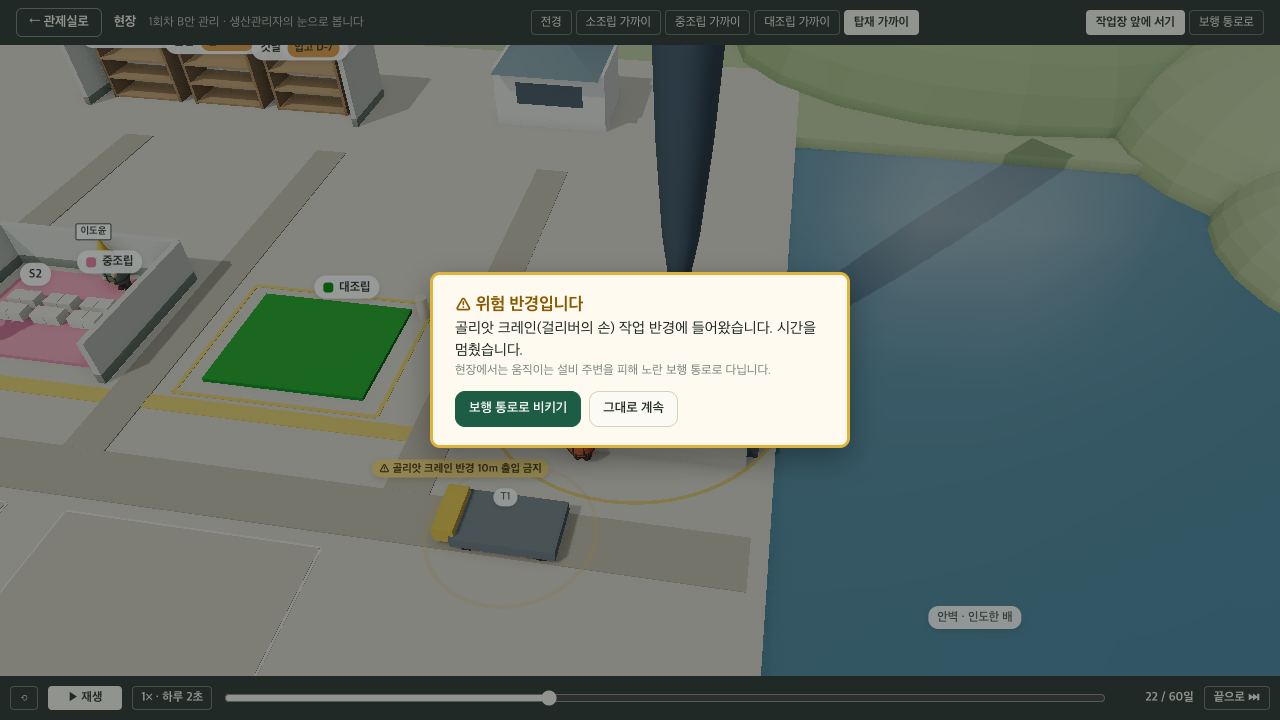
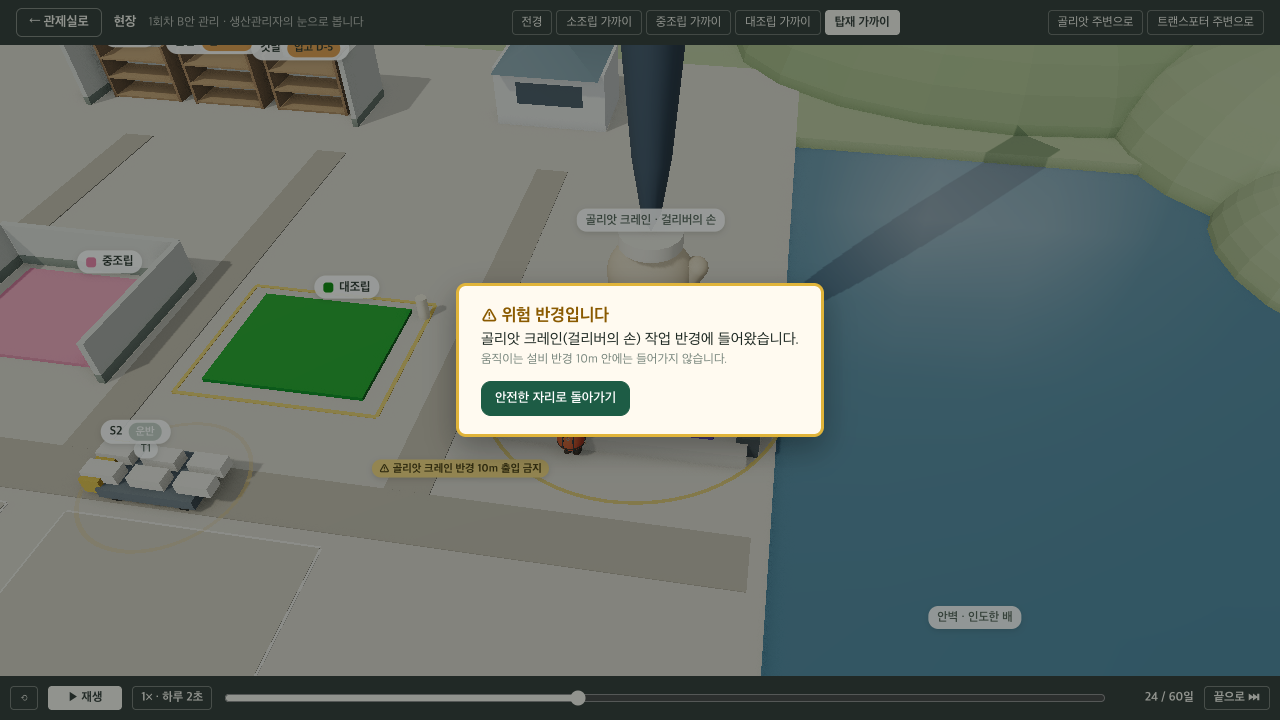
fix: 현장 안전 경고를 순간이동 버튼과 돌아가기 하나로 줄임(D35)

diff --git a/ui/src/scene/yard.ts b/ui/src/scene/yard.ts
@@ -34,12 +34,13 @@ const LAUNCH = { fill: [0.1, 0.28], open: [0.28, 0.4], sail: [0.4, 0.62], close:
 const LAUNCH_END = 0.86;
 const DOOR_OPEN = Math.PI * 0.47;   // 문이 거의 직각으로 열린다
 
-// 현장 안전(3.0, D27·D28): 위험 설비의 반경에 관리자가 들면 경고한다. 엔진 규칙이 아니라 현장 화면의 규칙이다.
-// 반경은 팻말에 "반경 10m"로 적는다(소인국 척도라 화면 크기는 보기 좋게만 맞춘다).
+// 현장 안전(3.0, D27·D28·D35): 관리자는 평소 작업장에서 떨어진 안전한 자리에 선다. "골리앗 주변으로"·"트랜스포터 주변으로"를
+// 누르면 그 설비 옆으로 순간이동하고, 위험 반경이라 경고한다(재생 중 저절로 뜨는 경고는 1인칭 이동이 생길 때로 미룬다).
+// 엔진 규칙이 아니라 현장 화면의 규칙이다. 반경은 팻말에 "반경 10m"로 적는다(소인국 척도라 화면 크기는 보기 좋게만).
 const CRANE_R = 2.9;        // 걸리버의 손(골리앗 크레인): 탑재 도크 둘레
-const CART_R = 1.4;         // 운행 중인 트랜스포터
-const WALKWAY_Z = 1.95;     // 보행 통로(노란 선): 1호 작업장 앞과 큰길 사이
-export type ManagerSpot = "front" | "walkway";
+const CART_R = 1.4;         // 트랜스포터
+const SAFE_Z = 1.95;        // 안전한 자리: 1호 작업장 앞과 큰길 사이(크레인 반경 밖)
+export type ManagerSpot = "safe" | "crane" | "cart";
 export interface Hazard { id: string; label: string }
 const WATER_TOP = 0.32;
 const phase = (frac: number, [a, b]: readonly [number, number]) => clamp01((frac - a) / (b - a));
@@ -347,10 +348,8 @@ export class Yard {
   private readonly labTag: CSS2DObject;
   private readonly labWindow: THREE.MeshStandardMaterial;
   /** 관리자 자리와 위험 경고 */
-  private managerSpot: ManagerSpot = "front";
+  private managerSpot: ManagerSpot = "safe";
   private managerStation: number | null = null;
-  private inside = new Set<string>();           // 지금 반경 안에 있는 설비(같은 설비는 나갔다 다시 들어와야 또 경고)
-  onHazard: ((h: Hazard) => void) | null = null;
   private craneRing!: THREE.Mesh;
   private readonly cartRings: THREE.Mesh[] = [];
   private craneActive = false;
@@ -461,26 +460,33 @@ export class Yard {
     for (const p of [...this.people, this.senior, this.manager]) p.showTag(on);
   }
 
-  /** 현장에서 관리자가 설 자리: 보고 있는 공정의 작업장 앞(큰길 옆·도크 앞) 또는 보행 통로. */
-  setManagerSpot(spot: ManagerSpot, station: number | null): void {
+  /**
+   * 관리자 자리. safe = 보고 있는 공정 앞쪽, 작업장에서 떨어진 안전한 자리(탑재는 크레인 반경 밖).
+   * crane·cart = 그 설비 옆으로 순간이동한다. 위험 반경에 들었으면 무엇인지 돌려준다(화면이 경고).
+   */
+  setManagerSpot(spot: ManagerSpot, station: number | null): Hazard | null {
     this.managerSpot = spot;
     this.managerStation = station;
-    this.manager.place(this.managerAt(), Math.PI, "stand", false, 0.4);
+    const at = this.managerAt();
+    this.manager.place(at, Math.PI, "stand", spot !== "safe", 0.4);
+    if (spot === "crane") return { id: "crane", label: "골리앗 크레인(걸리버의 손) 작업 반경" };
+    if (spot === "cart") return { id: "cart", label: "트랜스포터 운행 반경" };
+    return null;
   }
 
   private managerAt(): THREE.Vector3 {
     const i = this.managerStation;
-    if (this.managerSpot === "walkway") {
-      // 보행 통로: 탑재 쪽은 크레인 반경 밖으로 비켜 선다
-      const x = i === null ? -1 : i === 3 ? STATION_X[3] - CRANE_R - 0.8 : STATION_X[i];
-      return new THREE.Vector3(x, 0, WALKWAY_Z);
+    if (this.managerSpot === "crane") return new THREE.Vector3(STATION_X[3] - 0.8, 0, MAT_D / 2 + 0.6);
+    if (this.managerSpot === "cart") {
+      // 가장 가까이 있는 트랜스포터 바로 옆(큰길 위)
+      const cart = this.carts.find((c) => c.group.visible)?.group.position ?? new THREE.Vector3(DEPOT.x, 0, LANE_Z);
+      return new THREE.Vector3(cart.x + 0.5, 0, cart.z + 0.7);
     }
-    if (i === null) return new THREE.Vector3(-1, 0, LANE_Z + 0.9);
-    // 작업장 앞: 큰길 바로 옆(조립 공정), 도크 앞(탑재)
-    return i === 3 ? new THREE.Vector3(STATION_X[3] - 0.6, 0, MAT_D / 2 + 0.7) : new THREE.Vector3(STATION_X[i] - 0.3, 0, LANE_Z + 0.8);   // 트랜스포터가 블록을 내리는 자리 바로 옆
+    const x = i === null ? -1 : i === 3 ? STATION_X[3] - CRANE_R - 0.8 : STATION_X[i];
+    return new THREE.Vector3(x, 0, SAFE_Z);
   }
 
-  /** 위험 반경 표시(노랑·검정 점선 원), "반경 10m 출입 금지" 팻말, 보행 통로 노란 선 */
+  /** 위험 반경 표시(노랑·검정 점선 원)와 "반경 10m 출입 금지" 팻말 */
   private buildSafety(): void {
     const ring = (r: number) => {
       const m = new THREE.Mesh(new THREE.RingGeometry(r - 0.07, r, 64),
@@ -501,38 +507,17 @@ export class Yard {
     const sign = label("⚠ 골리앗 크레인 반경 10m 출입 금지", "place-tag small warn-tag");
     sign.position.set(STATION_X[3] - CRANE_R + 0.3, 0.05, 2.6);
     this.scene.add(sign);
-    const walk = new THREE.Mesh(new THREE.BoxGeometry(STATION_X[3] - CRANE_R - 0.3 - (-16), 0.012, 0.35),
-      new THREE.MeshStandardMaterial({ color: "#e0b43a", roughness: 0.8 }));
-    walk.position.set((-16 + STATION_X[3] - CRANE_R - 0.3) / 2, 0.008, WALKWAY_Z);
-    walk.receiveShadow = true;
-    this.scene.add(walk);
-    const wtag = label("보행 통로", "place-tag small");
-    wtag.position.set(-13, 0.05, WALKWAY_Z);
-    this.scene.add(wtag);
   }
 
-  /** 관리자 자리와 위험 설비의 거리를 보고, 반경에 새로 들어온 설비를 알린다. 재생 중에만. */
-  private checkHazards(playing: boolean): void {
-    const me = this.manager.root.position;
-    const near: Hazard[] = [];
-    const flat = (v: THREE.Vector3) => Math.hypot(v.x - me.x, v.z - me.z);
-    const crane = new THREE.Vector3(STATION_X[3], 0, 0);
+  /** 위험 반경 원: 크레인은 일할 때 진하게, 트랜스포터는 움직일 때 따라다닌다. */
+  private drawHazardRings(): void {
     (this.craneRing.material as THREE.MeshBasicMaterial).opacity = this.craneActive ? 0.9 : 0.3;
-    if (this.craneActive && flat(crane) < CRANE_R) near.push({ id: "crane", label: "골리앗 크레인(걸리버의 손) 작업 반경" });
     this.carts.forEach((cart, k) => {
-      const moving = cart.group.visible && cart.group.userData.moving === true;
       const ring = this.cartRings[k];
-      if (ring) {
-        ring.visible = moving;
-        ring.position.set(cart.group.position.x, 0.03, cart.group.position.z);
-      }
-      if (moving && flat(cart.group.position) < CART_R) near.push({ id: `cart${k}`, label: `트랜스포터 T${k + 1} 운행 반경` });
+      if (!ring) return;
+      ring.visible = cart.group.visible && cart.group.userData.moving === true;
+      ring.position.set(cart.group.position.x, 0.03, cart.group.position.z);
     });
-    const ids = new Set(near.map((h) => h.id));
-    for (const h of near) {
-      if (!this.inside.has(h.id) && playing) this.onHazard?.(h);
-    }
-    this.inside = ids;
   }
 
   /** 생산관리자 소인의 이름표: 서명한 닉네임. */
@@ -868,7 +853,7 @@ export class Yard {
     const t = this.timer.getElapsed();
     this.draw(false);
     for (const p of [...this.people, this.senior, this.manager]) p.update(dt);
-    this.checkHazards(this.source?.playing ?? false);
+    this.drawHazardRings();
     for (const lot of this.lots.values()) {
       if (!lot.group.visible) continue;
       // 대기 줄 → 정반처럼 자리를 옮기는 로트도 준비 시간(1배속 0.15초) 안에 닿게 빨리 옮긴다.

diff --git a/ui/src/main.ts b/ui/src/main.ts
@@ -83,8 +83,8 @@ interface State {
   zoomed: "left" | "right" | null;
   /** 현장에서 가까이 보는 공정. null이면 전경. */
   fieldFocus: number | null;
-  /** 현장에서 관리자가 설 자리: 작업장 앞(위험 반경에 들 수 있음) 또는 보행 통로(3.0) */
-  managerSpot: "front" | "walkway";
+  /** 현장에서 관리자가 선 자리: 안전한 자리, 또는 버튼으로 순간이동한 설비 옆(3.0) */
+  managerSpot: "safe" | "crane" | "cart";
   /** 마지막으로 서명한 사람(이 브라우저가 기억한다). */
   signer: Signer | null;
   /** 반 코드를 적었으면 그 반의 시나리오별 최고(서버). */
@@ -753,7 +753,9 @@ function openCctv(station: number, day?: number): void {
 function aimCamera(): void {
   const apply = () => {
     yard?.setCamera("field", state.fieldFocus);
-    yard?.setManagerSpot(state.managerSpot, state.fieldFocus);
+    // 공정을 바꿔 보면 관리자는 그 공정 앞 안전한 자리로 간다
+    state.managerSpot = "safe";
+    yard?.setManagerSpot("safe", state.fieldFocus);
     // 이름표는 현장에서 공정을 가까이 볼 때만.
     yard?.showNameTags(state.screen === "field" && state.fieldFocus !== null);
   };
@@ -783,7 +785,6 @@ function syncScene(jump: boolean): void {
   if (!yard) {
     yardLoading ??= import("./scene/yard").then((y) => {
       yard = new y.Yard();
-      yard.onHazard = warnHazard;
     });
     void yardLoading.then(() => {
       aimCamera();
@@ -1075,38 +1076,37 @@ function drawField(): void {
       h("button", { type: "button", class: state.fieldFocus === null ? "active" : "", onclick: () => { state.fieldFocus = null; drawField(); aimCamera(); } }, "전경"),
       scenario.stations.map((st, i) =>
         h("button", { type: "button", class: state.fieldFocus === i ? "active" : "", onclick: () => { state.fieldFocus = i; drawField(); aimCamera(); } }, `${st.name} 가까이`))),
-    // 관리자가 설 자리(3.0 안전): 작업장 앞은 설비가 다가오면 위험 반경에 들 수 있다
-    h("div", { class: "field-cams", role: "group", "aria-label": "관리자 자리" },
-      (["front", "walkway"] as const).map((spot) =>
-        h("button", { type: "button", class: state.managerSpot === spot ? "active" : "", onclick: () => moveManager(spot) },
-          spot === "front" ? "작업장 앞에 서기" : "보행 통로로"))));
+    // 관리자 순간이동(3.0 안전): 설비 옆으로 가면 위험 반경 경고. 1인칭 이동은 나중에(D35)
+    h("div", { class: "field-cams", role: "group", "aria-label": "관리자 이동" },
+      h("button", { type: "button", onclick: () => moveManager("crane") }, "골리앗 주변으로"),
+      h("button", { type: "button", onclick: () => moveManager("cart") }, "트랜스포터 주변으로")));
   drawOsd(els.fieldOsd);
 }
 
-function moveManager(spot: "front" | "walkway"): void {
+function moveManager(spot: "safe" | "crane" | "cart"): void {
   state.managerSpot = spot;
-  yard?.setManagerSpot(spot, state.fieldFocus);
-  drawField();
+  const hazard = yard?.setManagerSpot(spot, state.fieldFocus) ?? null;
+  if (hazard) warnHazard(hazard);
 }
 
-/** 위험 설비의 반경이 관리자에게 닿았다: 재생을 멈추고 알린다. 횟수는 그 회차 평가서에 한 줄(등급과 무관). */
+/** 위험 설비 옆으로 갔다: 재생을 멈추고 알린다. 횟수는 그 회차 평가서에 한 줄(등급과 무관). */
 function warnHazard(hazard: { id: string; label: string }): void {
   const r = currentRun();
-  if (!r || state.screen !== "field" || !state.playing) return;
+  if (!r || state.screen !== "field") return;
+  const wasPlaying = state.playing;
   pause();
   r.safetyWarnings = (r.safetyWarnings ?? 0) + 1;
-  const close = (resume: boolean) => {
-    overlay.remove();
-    if (resume) play();
-  };
   const overlay = h("div", { class: "safety-alert", role: "alertdialog", "aria-label": "현장 안전 경고" },
     h("div", { class: "safety-card" },
       h("b", null, "⚠ 위험 반경입니다"),
-      h("p", null, `${hazard.label}에 들어왔습니다. 시간을 멈췄습니다.`),
-      h("p", { class: "hint" }, "현장에서는 움직이는 설비 주변을 피해 노란 보행 통로로 다닙니다."),
+      h("p", null, `${hazard.label}에 들어왔습니다.`),
+      h("p", { class: "hint" }, "움직이는 설비 반경 10m 안에는 들어가지 않습니다."),
       h("div", { class: "safety-actions" },
-        h("button", { class: "btn primary", type: "button", onclick: () => { moveManager("walkway"); close(true); } }, "보행 통로로 비키기"),
-        h("button", { class: "btn", type: "button", onclick: () => close(true) }, "그대로 계속"))));
+        h("button", { class: "btn primary", type: "button", onclick: () => {
+          overlay.remove();
+          moveManager("safe");
+          if (wasPlaying) play();
+        } }, "안전한 자리로 돌아가기"))));
   els.field.append(overlay);
   overlay.querySelector<HTMLButtonElement>("button")?.focus();
 }
@@ -1232,7 +1232,7 @@ async function start(): Promise<void> {
     cctv: null,
     zoomed: null,
     fieldFocus: null,
-    managerSpot: "front",
+    managerSpot: "safe",
     signer: loadSigner(),
     classBest: {},
   };

diff --git a/docs/handoff-v2.0.md b/docs/handoff-v2.0.md
@@ -41,6 +41,7 @@ D10~D16은 2026-10-08에 사용자가 모두 확정했다.
 | D32 | 3.0 배치: 작업장은 1호(앞)·2호·3호(뒤) 세 줄, 큰길에서 공정 사이로 샛길 4개가 3호 뒤까지 들어간다(2호·3호 블록은 샛길로 드나듦). 큰길 건너편에 공용 적치장, 소조립·중조립·대조립 맞은편 칸마다 들어갈 차례 대기·짝 대기·운반 대기 블록을 둔다(정반은 비워 둔다). 탑재는 예외로 도크 앞. 적치장은 그림 표시이고 엔진 규칙은 그대로(이동에 시간·비용 없음). 나눠 하기는 부분마다 자기 작업장에 블록을 나눠 그린다. 공정 카드에 작업장 1~3개와 나눠 하기(탑재 제외) | 사용자: 트랜스포터 도로가 잘 배치되면 좋겠다, 대기 블록을 잠시 맡아 두는 적치장(조선소 용어 블록 적치장, stock yard)을 큰길 맞은편에 공용으로. 엔진은 이미 끝난 부분·대기 로트가 작업장을 차지하지 않아 그림만 어긋나 있었다(시안 `docs/mockups/v3-layout/`) | 확정 |
 | D33 | 분기(난이도)별로 생산계획서 옵션을 연다. 1 기본 분기: 일정·대기소·발주·트랜스포터·공법(표준·속성)·잔업·정비·연구 + 인력(일반·숙련공). 2 수주 증가: + 로봇·신공법·저가 자재·작업장 2개. 3 수주 급증: + 작업장 3개·나눠 하기. 시나리오 파일의 `options`(crews·methods·material_grades·max_units·split)를 화면은 그리지 않고, 엔진은 그 밖의 옵션을 쓴 설정을 거절한다(오류 문구에 분기와 옵션 이름) | 사용자 메모: 쉬운 분기에서 옵션을 가려 적응을 돕는다(증설 없이도 S: 균형 점검 작업장 1개 고정 최고 기본 109.6, 수주 증가 111.4). 숙련공은 1.x 시니어라 1단계에 남겨 기본 분기 숫자·규칙 문서 표를 그대로 둔다. 수주 증가는 증설(2개)을 남겨 D16 병목 증설 교육을 지킨다. 화면은 설정을 보내기만 하므로 개발자 도구로 숨긴 옵션을 보낼 수 있어, 반 순위 공정성과 "규칙은 엔진에" 원칙 때문에 엔진이 막는다 | 확정 |
 | D34 | 현장 안전 경고를 3.0에 넣는다(D27·D28 구현): 관리자 자리 "작업장 앞 / 보행 통로", 걸리버의 손(탑재·진수 중)과 운행 중 트랜스포터의 반경, 반경이 닿으면 재생 멈춤과 경고 카드, 평가서에 횟수(등급과 무관). 엔진 규칙(계획에 따라 사고 위험이 달라지는 것)은 넣지 않는다 | 사용자 질문 "지금 시나리오에서 안전 문제가 생길 여지가 있나": 엔진 안의 안전은 잔업 사고로 이미 있고(B안은 잔업이 없어 0건), 현장 경고는 설비가 움직이는 날(기본 분기 B안 운반 24일·탑재 18일)마다 생길 수 있다. 학생이 어디 서느냐로만 정해져 계획 평가와 섞지 않는다 | 확정(사용자: 가) |
+| D35 | D34를 줄인다: 재생 중 설비가 다가와 저절로 뜨는 경고, "작업장 앞 / 보행 통로" 단추, 보행 통로 선을 뺀다. 관리자는 평소 작업장에서 떨어진 안전한 자리에 서고, "골리앗 주변으로"·"트랜스포터 주변으로"로 순간이동하면 경고, 단추는 "안전한 자리로 돌아가기" 하나. 반경 원·팻말·평가서 한 줄은 남긴다 | 사용자: 발생 조건이 불필요하게 많다. 1인칭 이동(D9)을 넣을 때 임팩트를 내고 싶다 | 확정 |
 
 
 남은 질문: 2.0 목표일(빠듯하면 PR ⑥의 배경을 2.x로 뺀다).

diff --git a/CHANGELOG.md b/CHANGELOG.md
@@ -26,7 +26,7 @@
 - 균형 점검에 작업장 3·나눠 하기. 엔진 테스트 57개(3.0 규칙 10개 포함)
 - 간트: 나눠 한 날은 막대를 작업장 수만큼 가로 줄로 나눠, 줄마다 그 작업장의 상태(작업은 공정 색, 짝 대기는 회색 빗금, 인력 대기 등 손실색)를 그린다. 나눠 하기를 쓰는 분기만 범례에 "짝 대기". 투입 사건은 배마다 하나, 나눠 들어가면 `units`(작업장 목록)와 "1·2·3호에 나눠"
 - 평가서 공정별 OEE 표에 "짝 대기"(나눠 하기를 쓴 회차만): 먼저 끝난 부분이 기다린 날. 작업장은 비어 다른 배를 받을 수 있어 OEE에는 넣지 않고, 배의 리드타임에서는 작업으로 센다. 엔진 결과 `stations[].pair_wait_days`, `units[].pair_wait_days`
-- 현장 안전 경고(D27·D28, 엔진 밖·등급과 무관): 현장 위쪽 "작업장 앞에 서기 / 보행 통로로". 위험 설비는 걸리버의 손(탑재·진수 중, 도크 둘레 점선 원과 "반경 10m 출입 금지" 팻말)과 운행 중인 트랜스포터(따라다니는 점선 원). 관리자 자리에 반경이 닿으면 재생이 멈추고 경고 카드 [보행 통로로 비키기] [그대로 계속]. 같은 설비는 반경을 나갔다 다시 들어와야 또 경고. 평가서 맨 위에 "현장 안전 경고 n회"(현장에 나간 회차만). 작업 현황 전경에도 크레인 반경 점선 원
+- 현장 안전 경고(D27·D28·D35, 엔진 밖·등급과 무관): 관리자는 평소 작업장에서 떨어진 안전한 자리에 선다. 현장 위쪽 "골리앗 주변으로"·"트랜스포터 주변으로"를 누르면 그 설비 옆으로 순간이동하고, 위험 반경이라 재생이 멈추고 경고 카드 [안전한 자리로 돌아가기]. 위험 반경 원(크레인은 일할 때 진하게, 트랜스포터는 움직일 때 따라다님)과 "반경 10m 출입 금지" 팻말. 평가서 맨 위 "현장 안전 경고 n회". 재생 중 저절로 뜨는 경고는 1인칭 이동 때로 미룬다
 - 현장 진수 장면(그림만): 인도 다음 날, 1배속 재생 중 하루 안에 ① 탑재 작업자가 도크 밖으로 ② 도크에 물 ③ 걸리버의 손이 바다 쪽 문을 현관문처럼 연다(나가는 배의 왼쪽 끝이 세로 경첩, 손이 오른쪽 끝을 바다 쪽으로 민다) ④ 배가 문으로 나가 바다 제자리로 ⑤ 문 닫기 ⑥ 물 빼기. 그동안 다음 블록은 도크 앞에서 기다린다. 엔진 규칙·일정은 그대로(`frame.ts`의 `launches`)
 - 생산계획서 분기 포스트잇에 "새로 쓸 수 있는 것"(시나리오 `unlocks`)
 - 분기별 옵션(D33): 기본 분기는 인력 일반·숙련공, 공법 표준·속성만(로봇·신공법·저가 자재·증설·나눠 하기 없음), 수주 증가는 모든 4M과 작업장 2개까지, 수주 급증은 작업장 3개·나눠 하기까지. 시나리오 `options`로 생산계획서가 가린 옵션을 그리지 않고, 엔진이 그 밖의 옵션을 쓴 설정을 거절한다(서버의 실행·저장도). 규칙 검증 테스트는 잠금을 푼 분기로 돈다. 엔진 테스트 61개

diff --git a/CLAUDE.md b/CLAUDE.md
@@ -119,7 +119,7 @@ Node는 Homebrew로 설치했다(v26).
   소조립은 절단 공정이기도 하다(옛 재단 자리): 소인이 칼을 들고, 자투리 종잇조각이 튀고, 정반 라벨에 "절단 중". 그림만 그렇고 규칙은 같다.
   증설(2.0): 2호 정반은 1호 바로 뒤(`UNIT2_Z`)에 "2호" 팻말과 함께, 로트와 소인은 자기 작업장에. 인력이 로봇인 공정은 소인 대신 회색 로봇 팔(일할 때 움직임). 걸리버의 손(크레인)은 1호 탑재만 따라간다.
   진수(그림만): 인도 다음 날 재생 중에만 하루 안에 작업자 퇴장 → 도크 물 채움 → 걸리버 손이 문을 현관문처럼 열기(배의 왼쪽 끝이 세로 경첩, 오른쪽 끝을 손이 바다 쪽으로) → 출항 → 닫기 → 물 빼기(`LAUNCH` 비율, `frame.ts`의 `launches`). 다음 블록은 그동안 도크 앞에서 기다린다. 멈춰 있으면 끝난 모습.
-  현장 안전(D27·D28): 관리자 자리 `setManagerSpot`("front" 작업장 앞 = 트랜스포터가 내리는 자리 옆·도크 앞 / "walkway" 노란 보행 통로), 위험 반경 크레인 2.9·트랜스포터 1.4(`checkHazards`, 재생 중에만). 닿으면 `onHazard` → main.ts `warnHazard`가 멈추고 경고 카드, 회차의 `safetyWarnings`를 평가서에 한 줄(등급과 무관).
+  현장 안전(D27·D28·D35): 관리자는 평소 안전한 자리(`setManagerSpot("safe")`, 작업장에서 떨어진 1호 앞 선, 탑재는 크레인 반경 밖). "골리앗 주변으로"·"트랜스포터 주변으로"를 누르면 순간이동하고 main.ts `warnHazard`가 멈춤 + 경고 카드 [안전한 자리로 돌아가기], 회차의 `safetyWarnings`를 평가서에 한 줄(등급과 무관). 재생 중 자동 경고는 1인칭 이동(D9) 때로 미룬다.
   원인별 모습: 쉬는 사람은 대기소에 앉음, 고장은 연기, 사고는 통제 테이프, 잔업은 촛불, 빈 선반은 "입고 D-n", 손실은 로트 위 칩(색 + 글자).
 - `src/scene/people.ts`: 소인(2.1: 정원 노움 모습, 고깔모자, 하네스). 고깔모자 색으로 작업자·시니어(흰 띠)·관리자(조끼, 태블릿)를 구분한다.
   현장은 실사 쪽(D24): 환경광(`RoomEnvironment`), GTAO(구석 그늘, `EffectComposer`), 외곽선 없음. 사람마다 피부색·수염과 머리·체격, 가상 이름표(공정 가까이 볼 때만, 관리자 = 서명 닉네임).
